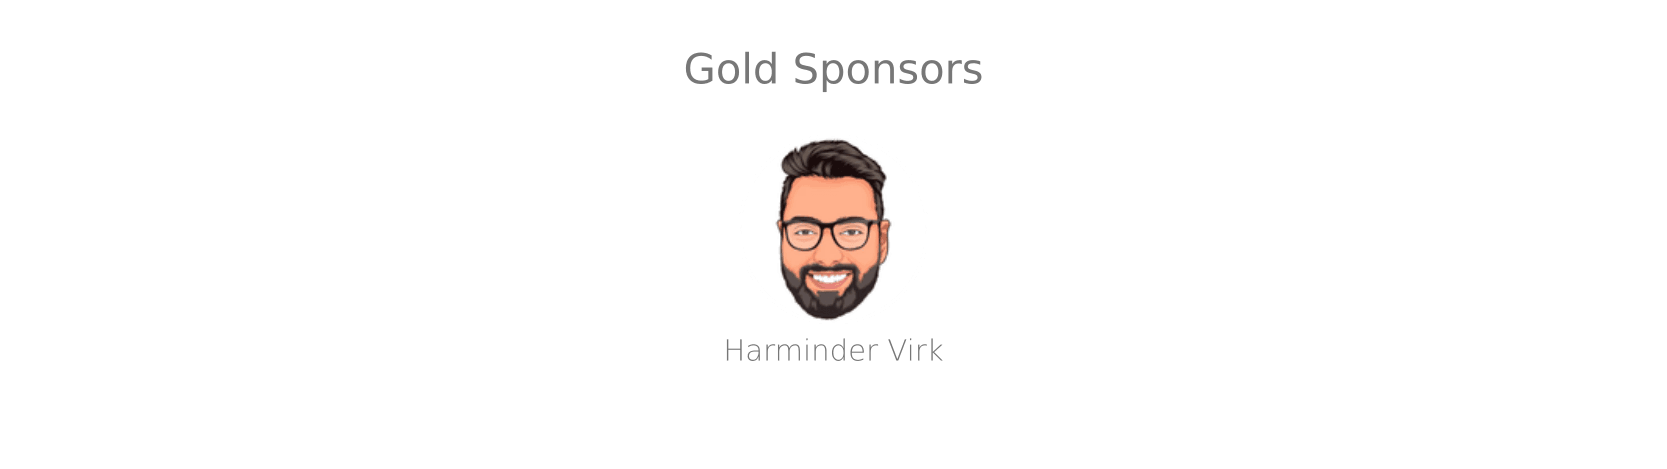
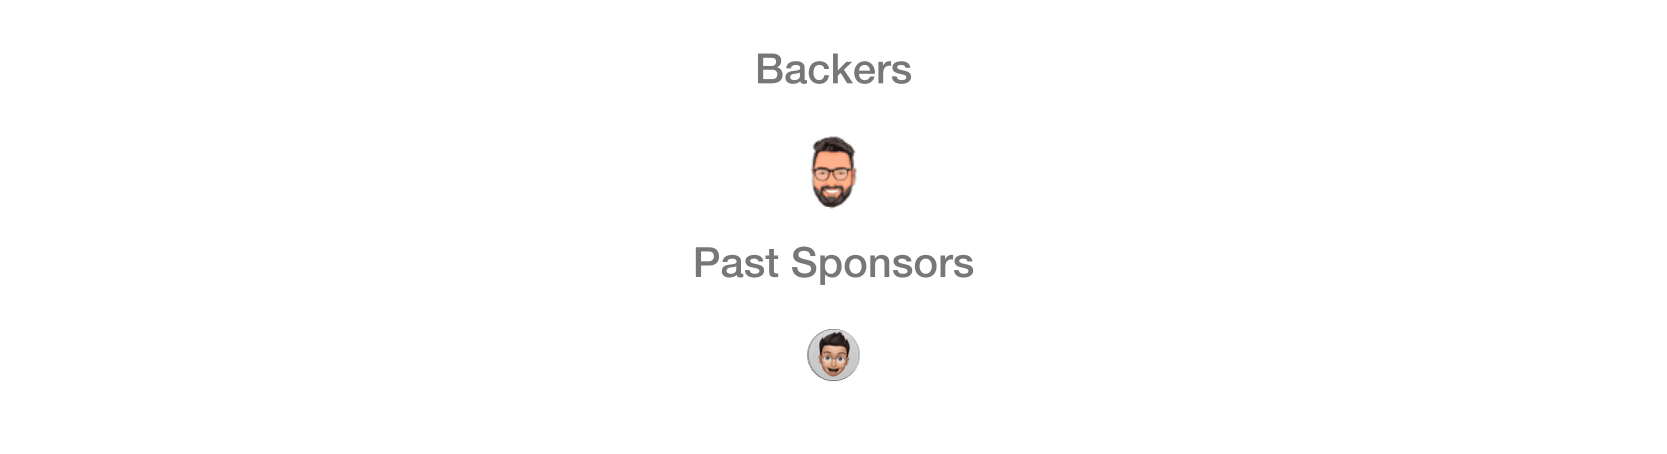
fix: update config to handle past sponsors

Changed region(s): [[0.4055, 0.2775, 0.5927, 0.6784], [0.4055, 0.0925, 0.5927, 0.185], [0.4367, 0.7093, 0.5615, 0.8326]]

diff --git a/sponsorkit.config.ts b/sponsorkit.config.ts
@@ -1,9 +1,20 @@
-import { defineConfig } from 'sponsorkit'
+import { defineConfig, tierPresets } from "sponsorkit";
 
 export default defineConfig({
   github: {
-    login: 'barbapapazes',
-    type: 'user',
+    login: "barbapapazes",
+    type: "user",
   },
-  outputDir: '.'
-})
+  tiers: [
+    {
+      title: "Past Sponsors",
+      monthlyDollars: -1,
+      preset: tierPresets.xs,
+    },
+    {
+      title: "Backers",
+      preset: tierPresets.small,
+    },
+  ],
+  outputDir: ".",
+});
